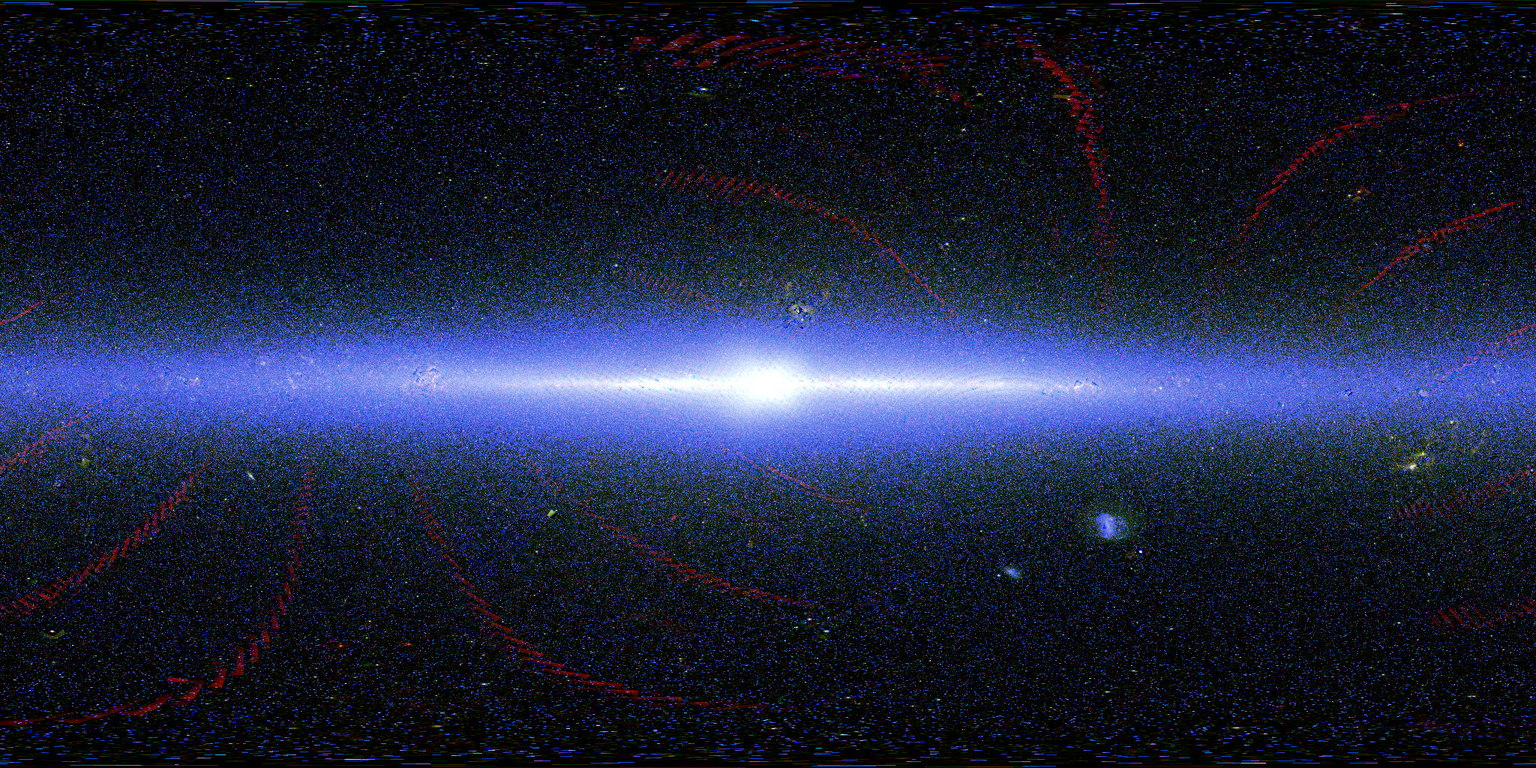
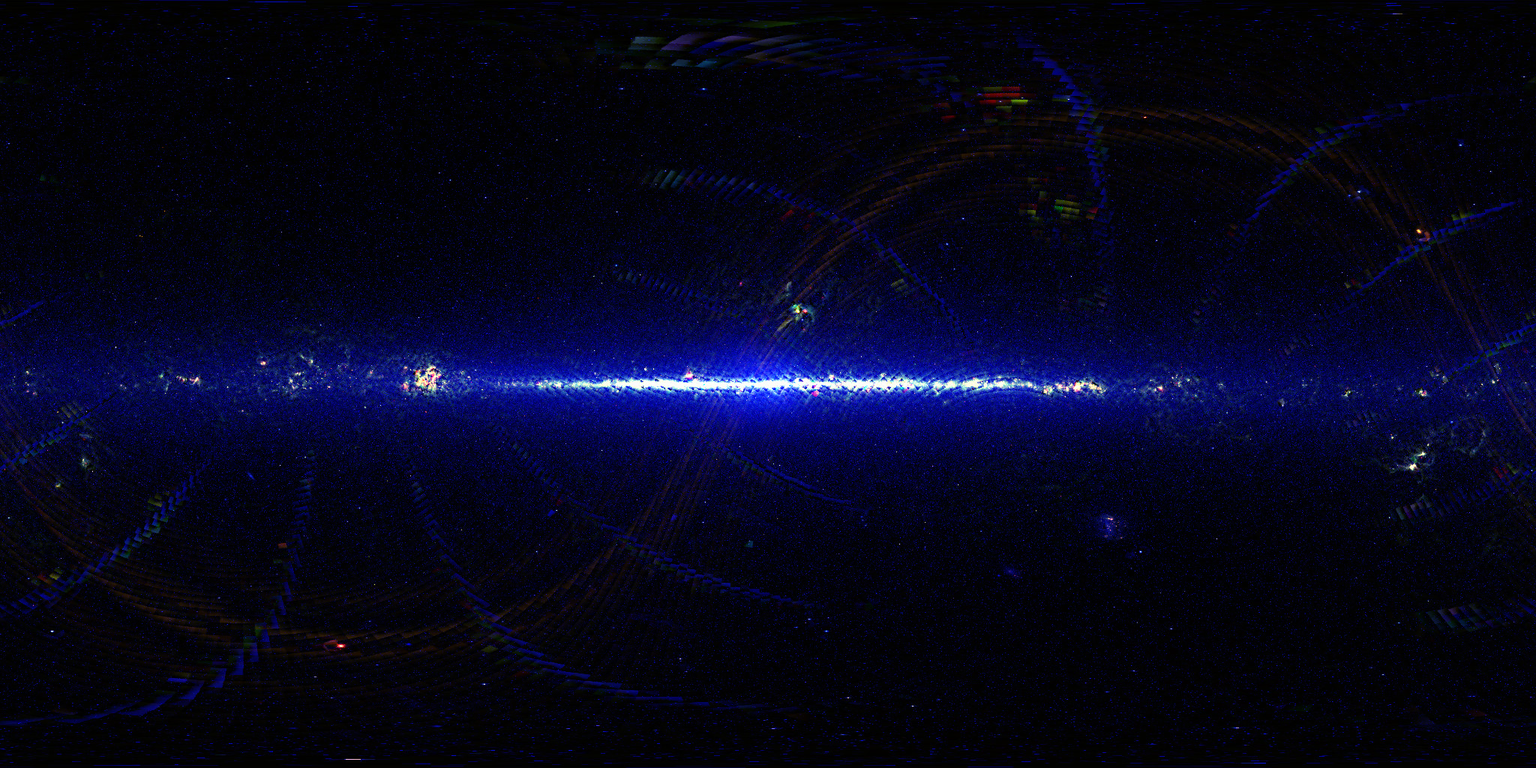
Sky spectrum: AKARI replaces IRAS in the far-infrared
IRAS left two strips of sky unobserved (its coolant ran out), which
showed as black crescents. The AKARI FIS all-sky survey covers it all,
and brings four bands for IRAS's two: 160, 140, 90 and 65 µm. The 65 µm
map is faint and dips below zero near the ecliptic poles, so it gets
the asinh stretch. 29 bands, 10 packs.

Claude-Session: https://claude.ai/code/session_017smdztJiJBTh8MuH9CDnY6

diff --git a/tools/sky-spectrum.html b/tools/sky-spectrum.html
@@ -5,7 +5,7 @@
 <meta name="viewport" content="width=device-width, initial-scale=1">
 <title>Sky Spectrum</title>
 <!--
-  The whole sky seen through a movable RGB "eye". 27 all-sky maps, radio to
+  The whole sky seen through a movable RGB "eye". 29 all-sky maps, radio to
   gamma rays, each normalised to 0…1 (build: npm run build:sky-spectrum).
   The rainbow selector on the spectrum bar places the red, green and blue
   channels: slide it to shift all three along the spectrum, drag its ends to
@@ -112,7 +112,7 @@
   const REGIONS = [
     ["Radio", (b) => ["radio408", "hi21"].includes(b.id)],
     ["Microwave", (b) => /^p0|^p1|^p2/.test(b.id)],
-    ["Far-IR", (b) => ["p353", "p545", "p857", "iris100", "iris60"].includes(b.id)],
+    ["Far-IR", (b) => ["p353", "p545", "p857", "a160", "a140", "a90", "a65"].includes(b.id)],
     ["Mid-IR", (b) => /^w/.test(b.id)],
     ["Near-IR", (b) => ["k", "j"].includes(b.id)],
     ["Visible", (b) => ["rp", "g", "bp"].includes(b.id)],
